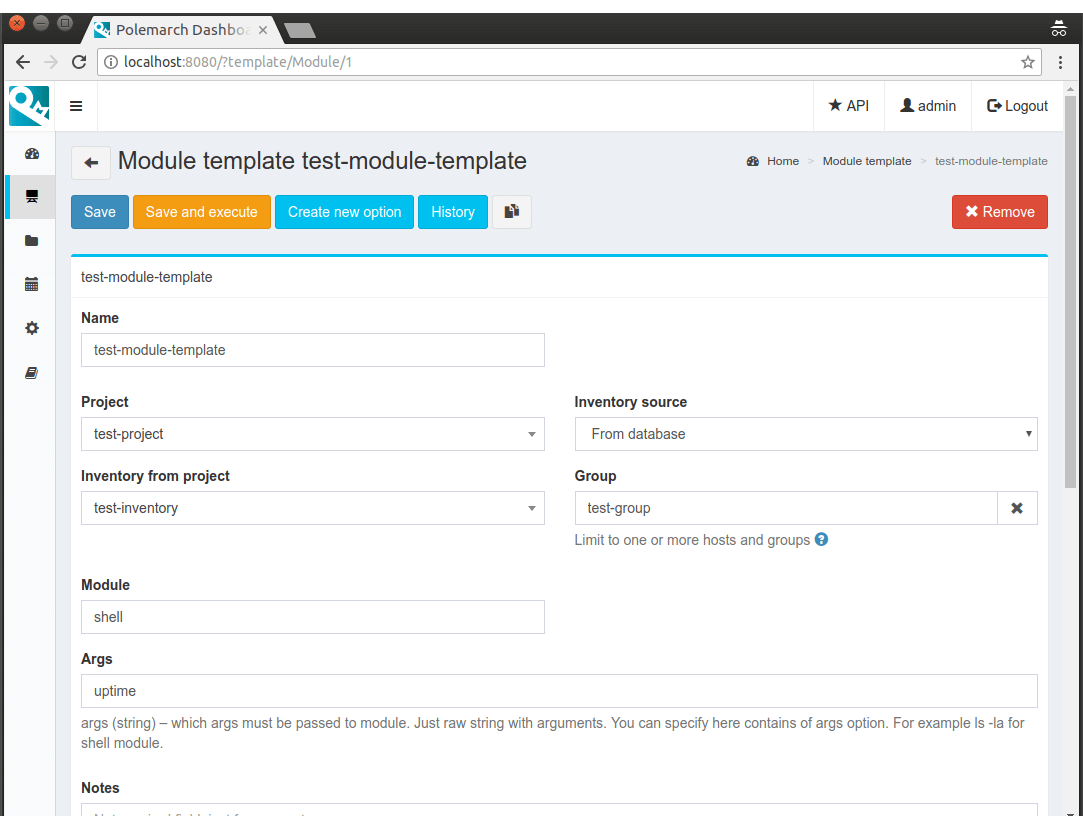
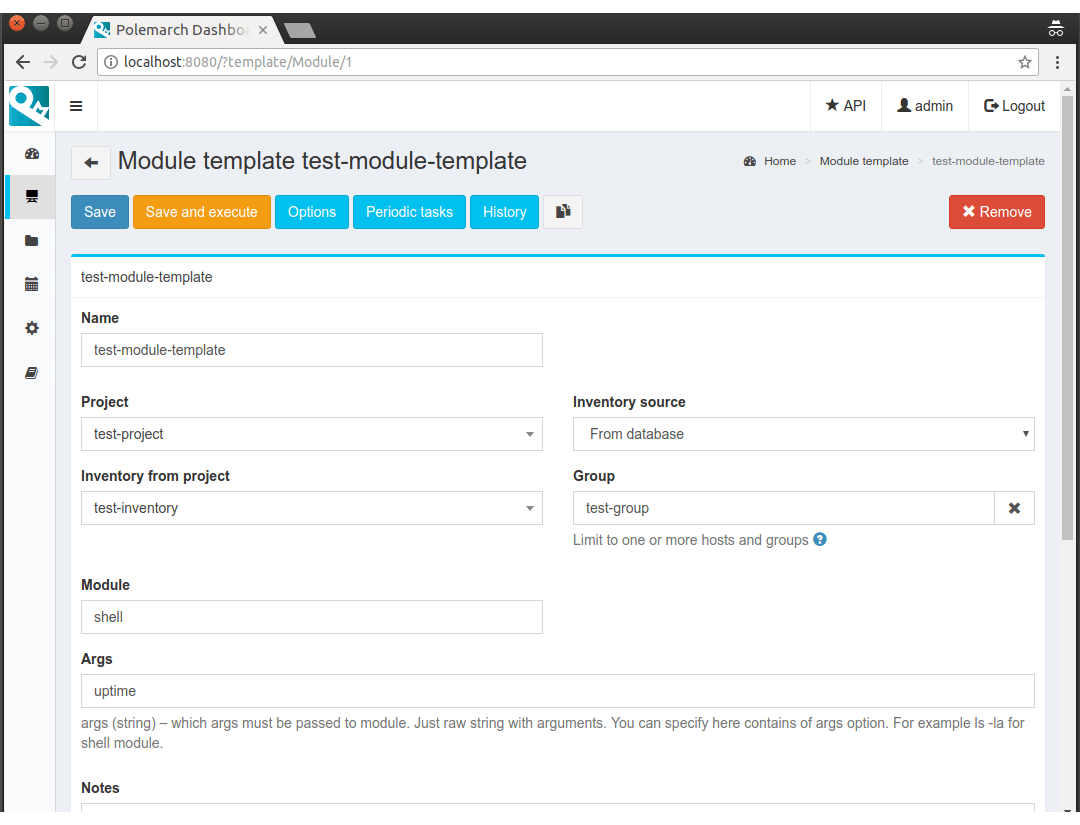
GUI workflow documentation was updated.
New screencast was added.

polemarch/ce#26

[ci skip]

diff --git a/doc/gui.rst b/doc/gui.rst
@@ -204,6 +204,7 @@ As you can see, the form of new GIT project creation consist of 5 fields:
 After project creation you will the next page:
 
 .. image:: gui_png/test-project.png
+.. image:: gui_png/test-project2.png
 
 As you can see at image above for GIT project
 it is possible to choose a branch to what user want to sync. In this example user will sync
@@ -221,6 +222,11 @@ Also there are 2 new fields:
   SYNC - synchronization is in progress,
   ERROR - synchronization failed,
   OK - project is synchronized.
+
+There is new section on this page:
+
+* **Reame.md** - if project has “readme.md” or “readme.rst” file in it’s project directory,
+  Polemarch will add content of this file to this section.
 
 Also there are several buttons on this page:
 
@@ -438,7 +444,9 @@ But also there are some new buttons here:
 
 * **save and execute** - this button saves all changes you have made on this page and executes this template.
 
-* **create new option** - this button opens the "Create new option" page.
+* **options** - this button opens the page with this template options list.
+
+* **periodic tasks** - this button opens the page with the list of periodic tasks based on this template.
 
 * **history** - this button opens history list of template executions.
 
@@ -452,6 +460,10 @@ Options
 Sometimes your need to keep some similar templates, which are different by only several parameters.
 In this case template options will be extremly useful for you. In every template you can create
 a lot of options which can modify this template by some parameters. Let's look at the example:
+
+.. image:: gui_png/empty-options-list.png
+
+As you can see, now there are no options for this template. Let's create the first one.
 
 .. image:: gui_png/create-new-option.png
 
@@ -513,12 +525,6 @@ As you can see there are 2 sections on this page: "New task" and "Adding new arg
 * **save in history** - if value is true, the fact of task execution will be saved in history records.
   Otherwise, no history records about this periodic task execution will be saved.
 
-* **inventory source** - source of inventory. It can be either "From database" or "From file in project dir".
-
-* **inventory from project / inventory file** - name of inventory.
-
-* **group** - name of group to which this periodic task will be executed.
-
 * **kind** - kind of task: module or playbook.
 
 * **playbook** - name of playbook. This field is available for kind=playbook only.
@@ -532,7 +538,13 @@ As you can see there are 2 sections on this page: "New task" and "Adding new arg
   Options' name will be shown in square brackets, for example, "template_name [template_option_name]".
   This field is available for kind=template only.
 
+* **group** - name of group to which this periodic task will be executed.
+
 * **args** - arguments for ansible module. This field is available for kind=module only.
+
+* **inventory source** - source of inventory. It can be either "From database" or "From file in project dir".
+
+* **inventory from project / inventory file** - name of inventory.
 
 * **type** - type of schedule. It can be either "Interval schedule" or "Cron style schedule".
 
